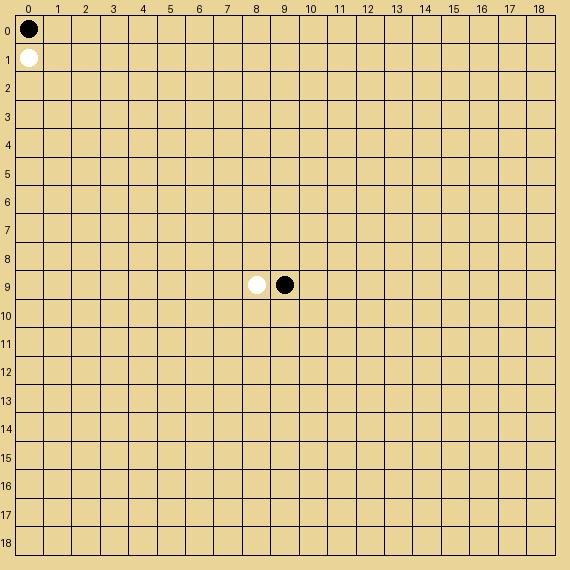
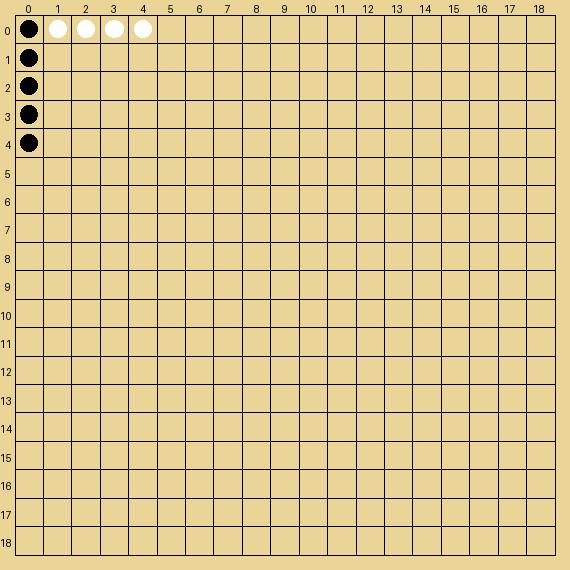
modify gomoku

Changed region(s): [[0.0298, 0.0895, 0.0895, 0.2684], [0.0895, 0.0298, 0.2684, 0.0895], [0.4175, 0.4772, 0.5368, 0.5368]]

diff --git a/cogs/gomoku_app_cog.py b/cogs/gomoku_app_cog.py
@@ -20,23 +20,23 @@ class GomokuAppCog(commands.Cog):
     @commands.command(name="gomoku")
     async def start(self, ctx: commands.Context):
         if self.gomoku is not None:
-            await ctx.send(f"You already have a game.", embed=self.make_gomoku_embed(),
+            await ctx.send(f"進行中のゲームがあります", embed=self.make_gomoku_embed(),
                            file=discord.File(gomoku_app.IMG_PATH))
             return
         
         self.gomoku = gomoku_app.Gomoku(19)
         self.gomoku.make_board_img()
-        await ctx.send(f"Gomoku started.", embed=self.make_gomoku_embed(),
+        await ctx.send(embed=self.make_gomoku_embed(),
                        file=discord.File(gomoku_app.IMG_PATH))
     
     @commands.command(name="put")
     async def put_piece(self, ctx: commands.Context, x: int, y: int):
         if self.gomoku is None:
-            await ctx.send("Please start it with `/gomoku`.")
+            await ctx.send("`/gomoku`コマンドでゲームを始めてください")
             return
         
         try:
-            self.gomoku.put_piece(x, y)
+            self.gomoku.put_piece(y, x)
             self.gomoku.make_board_img()
             embed = self.make_gomoku_embed()
             if self.gomoku.winner is not None:
@@ -51,11 +51,12 @@ class GomokuAppCog(commands.Cog):
         embed = discord.Embed()
         turn_text = ("先手番", "後手番")[self.gomoku.get_turn()]
         embed.title = f"{turn_text} ({self.gomoku.count+1}手目)"
+        embed.description = "`/put [行番号] [列番号]`で手番を進めてください"
         if self.gomoku.winner is not None:
-            embed.title = f"Winner {self.gomoku.get_turn()}"
+            embed.title = f"{turn_text[:2]}の勝ち"
+            embed.description = "ゲームは終了しました"
         # embed.description = self.gomoku.get_formatted_board()
         embed.color = 0x1111aa
-        embed.description = "`/put [行番号] [列番号]`で手番を進めてください"
         return embed
     
 async def setup(bot):
